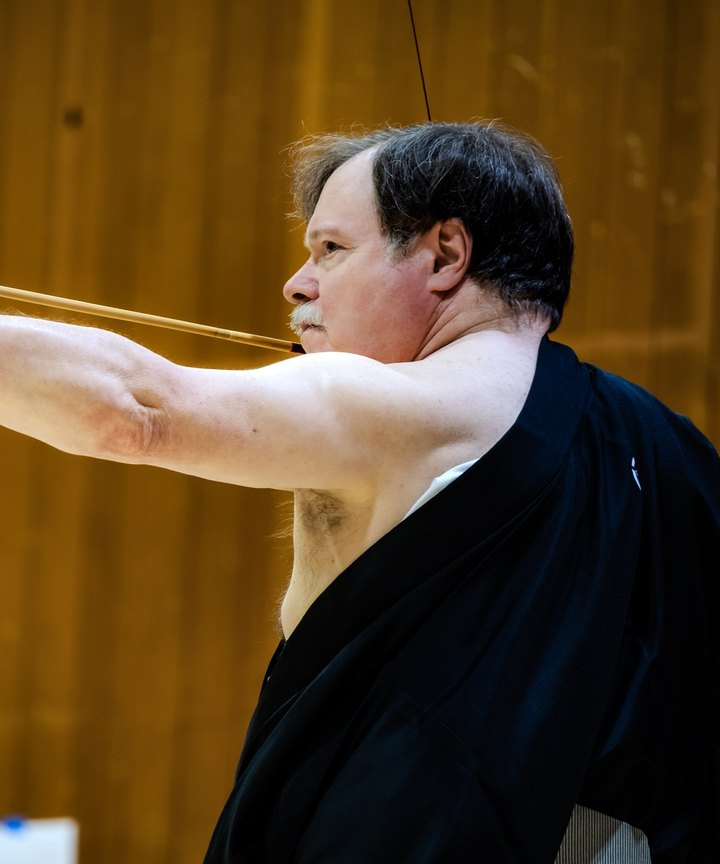
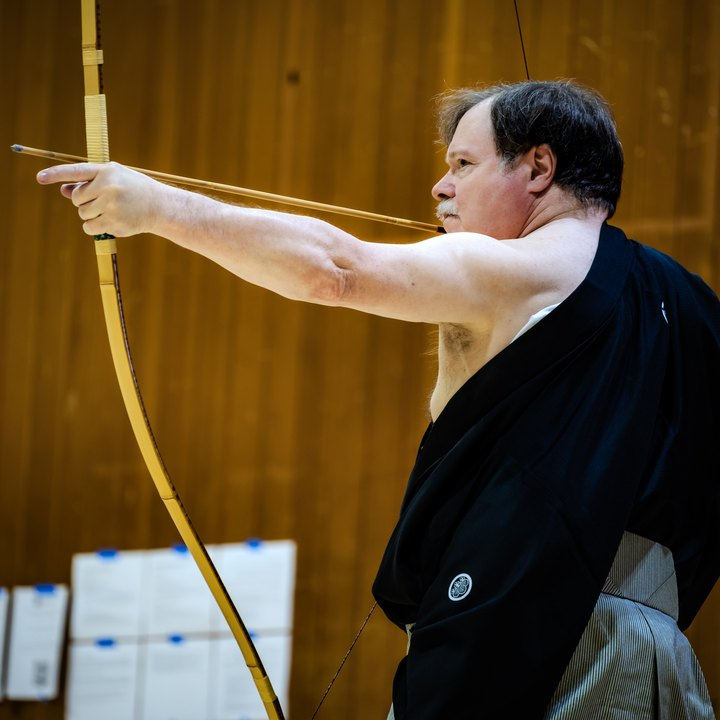
Show Sensei Steve's portrait uncropped
The supplied photo is already framed, so render it at its own ratio
instead of forcing the 5:6 card crop. Studio portraits keep the 5:6 crop.

Claude-Session: https://claude.ai/code/session_014w7RqszWEBuvamh4855xq3

diff --git a/src/lib/sanity.ts b/src/lib/sanity.ts
@@ -59,14 +59,14 @@ export async function getEvents(defaults: Ev[]): Promise<Ev[]> {
 // ---- Instructors (`person`) -------------------------------------------------------------------------------------
 
 export interface Instructor {
-  name: string; title?: string; rank?: string; rankPlain?: string; credentials: string[]; email?: string; portrait?: string;
+  name: string; title?: string; rank?: string; rankPlain?: string; credentials: string[]; email?: string; portrait?: string; portraitRatio?: [number, number];
 }
 /** Instructors in menu order. The first one is laid over site.json's instructor, so a half-filled document still renders. */
 export async function getInstructors(): Promise<Instructor[]> {
   const t = (await getSite()).instructor;
   const fallback: Instructor = {
     name: t.name, title: 'Chief Instructor', rank: t.rank, rankPlain: t.rankPlain, credentials: [t.role, t.former], email: t.email,
-    portrait: '/people/steve-scott.jpg', // shown until a portrait is uploaded in the Studio
+    portrait: '/people/steve-scott.jpg', portraitRatio: [1, 1], // shown, uncropped, until a portrait is uploaded in the Studio
   };
   const docs = await query<Record<string, any>[]>(`*[_type == "person"] | order(coalesce(order, 999) asc, _createdAt asc){
     name, title, rank, rankPlain, credentials, email,
@@ -80,6 +80,7 @@ export async function getInstructors(): Promise<Instructor[]> {
       if (portrait) {
         // 5:6 crop around the hotspot Steve sets in the Studio, sized for the 160px card at 3x
         const x = fp?.x ?? 0.5, y = fp?.y ?? 0.4;
+        p.portraitRatio = undefined;
         p.portrait = `${portrait}?w=480&h=576&fit=crop&crop=focalpoint&fp-x=${x}&fp-y=${y}&auto=format`;
       }
       return p;

diff --git a/src/lib/render.ts b/src/lib/render.ts
@@ -31,8 +31,9 @@ export function widgetSlot(site: Site): string {
 }
 
 export function instructorCard(t: Instructor, headingTag: 'h2' | 'h3' = 'h2'): string {
+  const [pw, ph] = t.portraitRatio ?? [5, 6];
   const photo = t.portrait
-    ? `<img class="photo has-img" src="${esc(t.portrait)}" alt="${esc(t.name)}" width="160" height="192" loading="lazy" decoding="async">`
+    ? `<img class="photo has-img" src="${esc(t.portrait)}" alt="${esc(t.name)}" width="160" height="${Math.round((160 * ph) / pw)}" loading="lazy" decoding="async">`
     : `<div class="photo mono" role="img" aria-label="Photo of ${esc(t.name)}, placeholder">PHOTO</div>`;
   const rank = t.rank ? `<p style="margin:var(--space-2) 0 0">${esc(t.rank)}${t.rankPlain ? ` <span class="muted">· ${esc(t.rankPlain)}</span>` : ''}</p>` : '';
   const creds = t.credentials?.length ? `<ul class="creds">${t.credentials.map((c) => `<li>${esc(c)}</li>`).join('')}</ul>` : '';

diff --git a/src/styles/site.css b/src/styles/site.css
@@ -152,7 +152,7 @@
   .card { display: grid; gap: var(--space-8); background: var(--washi-raised); border: 1px solid var(--hairline); padding: var(--space-8) var(--space-4); }
   @media (min-width: 720px) { .card { grid-template-columns: 160px 1fr; padding: var(--space-8); } }
   .cards { display: grid; gap: var(--space-8); }
-  img.photo { display: block; height: auto; object-fit: cover; }
+  img.photo { display: block; height: auto; aspect-ratio: auto; object-fit: cover; }
   .rows li[hidden] { display: none; }
   .panel .actions { margin-top: var(--space-4); }
   .rows li.off .title, .rows li.off .day { color: var(--sumi-muted); }
